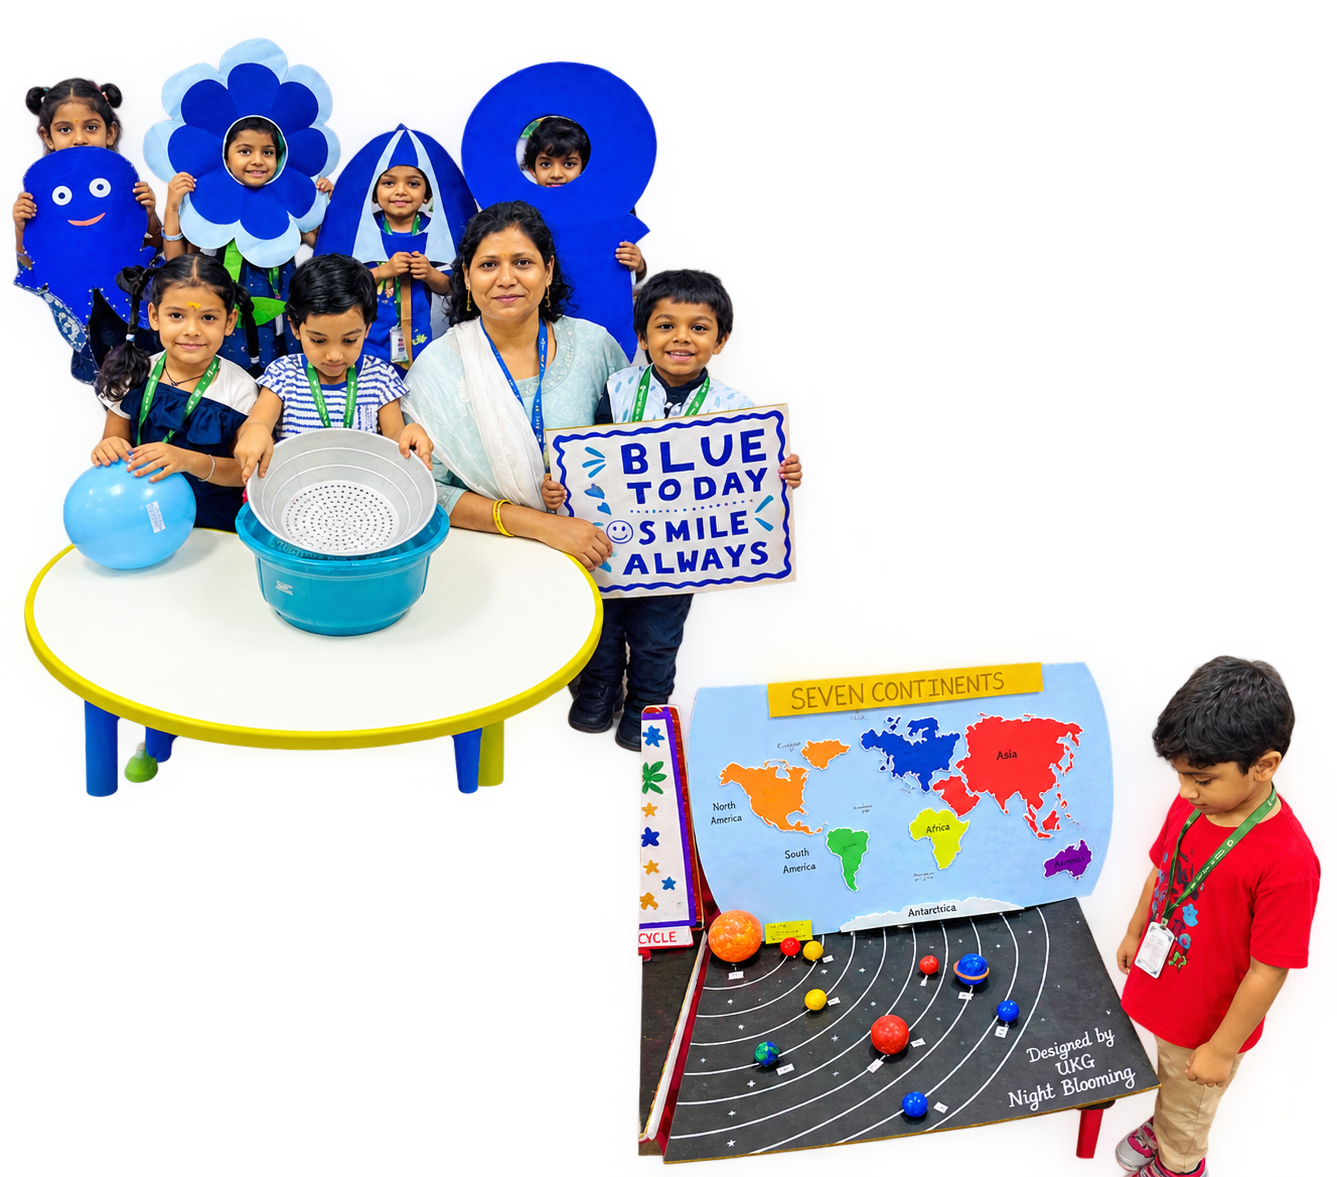
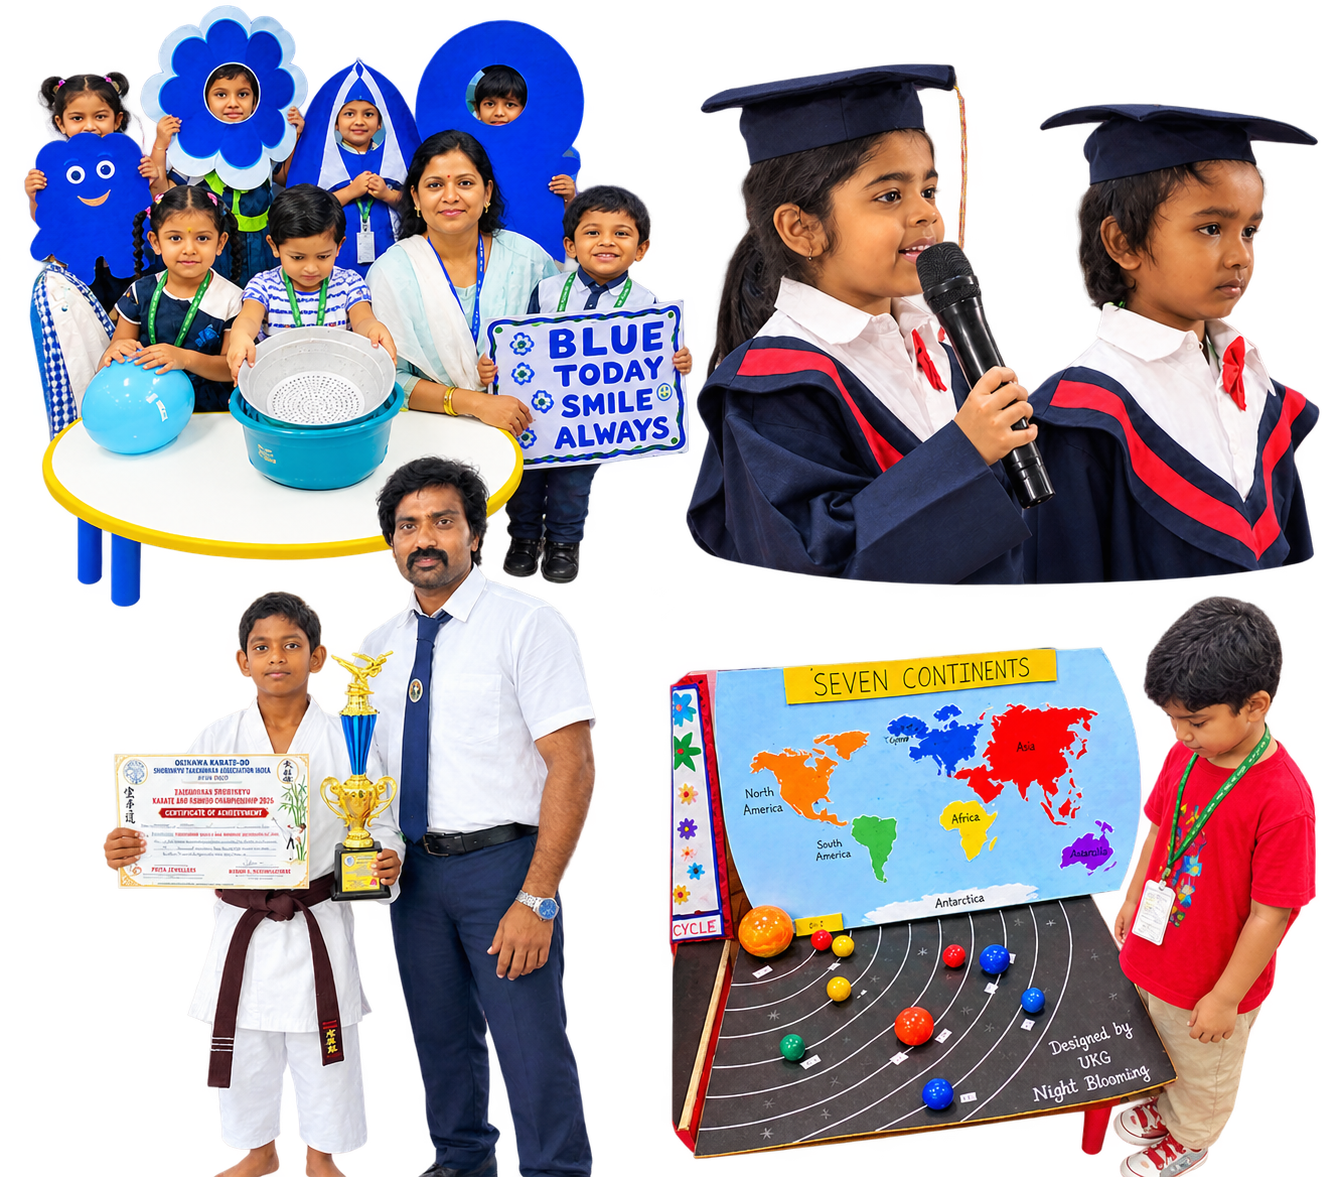
hm

diff --git a/index.html b/index.html
@@ -14,19 +14,9 @@
     <link rel="stylesheet" href="assets/css/swiper-bundle.min.css">
     <link rel="stylesheet" href="assets/fonts/fontawesome-free-6.7.1-web/css/all.min.css">
     <link rel="shortcut icon" type="image/x-icon" href="assets/img/future.png">
-
-
-
-
 </head>
 
 <body>
-    <!-- Preloader start -->
-    <div class="sb-page-loader">
-        <img src="assets/images/logo/preloader.svg" class="position-absolute" alt="preloader-logo">
-        <span class="loader">
-        </span>
-    </div>
 
     <!-- =========================================
      OLIVE TREE SCHOOL HEADER
@@ -313,7 +303,7 @@
                     <div class="swiper-slide">
 
                         <!-- Hero Section Start -->
-                        <section class="hero-section hero-1 " style="margin-top: -2%;">
+                        <section class="hero-section hero-1">
                             <div class=" hero-container">
                                 <div id="rs-slider" class="rs-slider slider6">
                                     <div class="slideshow-container">
@@ -324,7 +314,21 @@
 
                                         </div>
 
-                                       
+                                          <div class="mySlides fade">
+
+                                            <img src="assets/img/futurebanner1.png" style="width:100%">
+
+                                        </div>
+                                           <div class="mySlides fade">
+
+                                            <img src="assets/img/futurebanner2.png" style="width:100%">
+
+                                        </div>
+                                           <div class="mySlides fade">
+
+                                            <img src="assets/img/futurebanner3.png" style="width:100%">
+
+                                        </div>
 
                                     </div>
 
@@ -451,17 +455,18 @@
                     <div class="sb-section-title-wrapper">
 
                         <h4 class="sb-section-subtitle mb-10"
-                            style="color:#52783c; font-size:17px; font-weight:700; letter-spacing:1px;">
-                            GET TO KNOW US
+                            style="color:#52783c; font-size:27px; font-weight:700; letter-spacing:1px;">
+                            Olive Tree – The Future School
                         </h4>
 
                         <h2 class="sb-section-title pb-25 split-text right"
                             style="color:#254d32; font-size:clamp(30px,3.2vw,23px); 
-                            line-height:1.2; font-weight:800; margin-bottom:15px;text-align: center;">
-                            Olive Tree – The Future School
+                            line-height:1.2; font-weight:800;text-align: center;">
+                           About us 
                         </h2>
 
-                        <p style="color:#000; font-size:17px; line-height:1.9; text-align:justify; margin-bottom:18px;">
+                        <p style="color:#000; font-size:17px; line-height:1.9; text-align:justify;
+                         margin-bottom:15px;">
                             Olive Tree – The Future School is dedicated to developing
                             an educational environment that prepares children for
                             academic success and the opportunities and responsibilities
@@ -641,7 +646,7 @@
 
                 <div class="col-md-4">
                     <div class="sb-btn-wrapper d-flex justify-content-md-end">
-                        <a href="about.html" class="sb-btn sb-btn-two">
+                        <a href="#" class="sb-btn sb-btn-two">
                             <div class="sb-btn-text sb-btn-two-text position-relative">
                                 <span class="sb-btn-text-1">Explore Our School</span>
                                 <span class="sb-btn-text-2">Explore Our School</span>
@@ -697,7 +702,7 @@
                                 mathematical concepts.
                             </p>
 
-                            <a href="academic.html"
+                            <a href="#"
                                class="sb-blog-btn pt-15 d-inline-block">
                                 Explore Programme
                                 <img src="assets/images/icon/arrow-right-yellow.png"
@@ -743,7 +748,7 @@
                                 physical education through interactive learning.
                             </p>
 
-                            <a href="academic.html"
+                            <a href="#"
                                class="sb-blog-btn pt-15 d-inline-block">
                                 Explore Programme
                                 <img src="assets/images/icon/arrow-right-yellow.png"
@@ -789,7 +794,7 @@
                                 languages, social science and life skills.
                             </p>
 
-                            <a href="academic.html"
+                            <a href="#"
                                class="sb-blog-btn pt-15 d-inline-block">
                                 Explore Programme
                                 <img src="assets/images/icon/arrow-right-yellow.png"
@@ -1324,45 +1329,41 @@ document.addEventListener("DOMContentLoaded", function () {
                             </ul>
                         </div>
                     </div>
-                    <div class="col-lg-4 col-xl-4 col-md-7">
+            
+<!-- ===== FOOTER GOOGLE MAP LOCATION ===== -->
+<div class="col-lg-4 col-xl-4 col-md-7">
+    <div class="sb-footer-item sb-footer-location fade-up">
 
-                        <div class="sb-footer-item pl-84 fade-up">
-                            <h4 class="sb-footer-title">Our Activity</h4>
-                            <div class="sb-footer-item-box pb-30 d-inline-flex align-items-center">
-                                <div class="sb-footer-item-box-icon mr-20">
-                                    <img class=" " src="assets/img/advocate.jpg" alt="" style="width: 100px;">
-                                </div>
-                                <div>
+        <h4 class="sb-footer-title">Our Location</h4>
 
+        <div class="sb-footer-map">
+            <iframe
+                src="https://www.google.com/maps?q=Kodungaiyur,Chennai,Tamil+Nadu&output=embed"
+                title="School Location"
+                width="100%"
+                height="220"
+                style="border:0;"
+                loading="lazy"
+                referrerpolicy="no-referrer-when-downgrade"
+                allowfullscreen>
+            </iframe>
+        </div>
 
-                                    <span class="sb-footer-item-text fs-20-black fs-20 d-inline-block mb-10">
+        <a
+            href="https://www.google.com/maps/search/?api=1&query=Kodungaiyur+Chennai+Tamil+Nadu"
+            target="_blank"
+            rel="noopener noreferrer"
+            class="sb-footer-map-link">
 
+            <i class="fa-solid fa-location-dot"></i>
+            Get Directions
+            <i class="fa-solid fa-arrow-up-right-from-square"></i>
 
-                                        25 Oct 2024
+        </a>
 
-                                    </span>
-                                    <a href="blog-details.html" class="fs-18 d-block">This leader in organic <br>
-                                        agriculture growth </a>
-                                </div>
-                            </div>
-                            <div class="sb-footer-item-box pb-30 d-inline-flex align-items-center">
-                                <div class="sb-testi-item-box-icon mr-20">
-                                    <img class=" " src="assets/img/beetroot.jpg" alt="" style="width: 100px;">
-                                </div>
-                                <div>
+    </div>
+</div>
 
-                                    <span class="sb-footer-item-text fs-20-black d-inline-block fs-20 mb-10">
-
-                                        25 Oct 2024
-
-                                    </span>
-                                    <a href="blog-details.html" class="fs-18 d-inline-block"> Growing a Greener Future
-                                        with Organic Practices</a>
-                                </div>
-                            </div>
-                        </div>
-
-                    </div>
                     <div class="col-lg-3 col-xl-3 col-md-5">
                         <div class=" pl-36 fade-up">
                             <h4 class="sb-footer-title">Contact</h4>

diff --git a/assets/css/custom.css b/assets/css/custom.css
@@ -334,7 +334,7 @@ body {
     );
     border: 2px solid #a36a38;
     border-radius: 6px;
-    font-size: 16px;
+    font-size: 15px;
     font-weight: 750;
     white-space: nowrap;
     transition:
@@ -354,7 +354,7 @@ body {
 }
 
 .ot-admission-button i {
-    font-size: 17px;
+    font-size: 12px;
 }
 
 .ot-admission-arrow {
@@ -453,7 +453,7 @@ body {
 
     .ot-top-header a,
     .ot-top-header span {
-        font-size: 12px;
+        font-size: 14px;
     }
 
     .ot-top-location {
@@ -741,7 +741,7 @@ body {
     .ot-admission-button {
         min-height: 43px;
         padding: 10px 12px;
-        font-size: 13px;
+        font-size: 12px;
         gap: 7px;
     }
 
@@ -883,7 +883,7 @@ body {
 
     .ot-admission-button {
         padding: 8px;
-        font-size: 11px;
+        font-size: 12px;
     }
 
     .ot-admission-button i {
@@ -2910,7 +2910,7 @@ body {
 
     .ot-top-header a,
     .ot-top-header span {
-        font-size: 12px;
+        font-size: 14px;
     }
 
     .ot-top-location {
@@ -3100,7 +3100,7 @@ body {
 
     .ot-top-header a,
     .ot-top-header span {
-        font-size: 11px;
+        font-size: 14px;
     }
 
     .ot-top-location {
@@ -3365,7 +3365,7 @@ body {
 
     .ot-admission-button {
         padding: 7px 8px;
-        font-size: 10px;
+        font-size: 12px;
     }
 
     .ot-mobile-toggle {
@@ -3416,7 +3416,7 @@ body {
 
     .ot-top-header a,
     .ot-top-header span {
-        font-size: 10px;
+        font-size: 14px;
     }
 
     .sb-footer-bottom {

diff --git a/assets/css/style.css b/assets/css/style.css
@@ -146,7 +146,6 @@ p,
 span,
 a {
   font-family: var(--dm-sans);
-  font-size: 17px;
   font-weight: 500;
   color: var(--sb-body-color);
   line-height: 28px;
